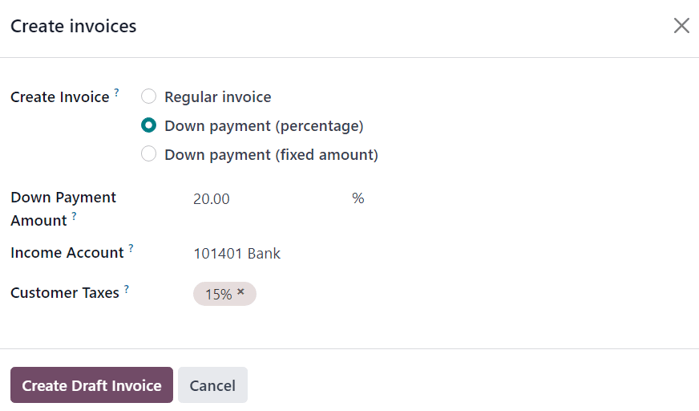
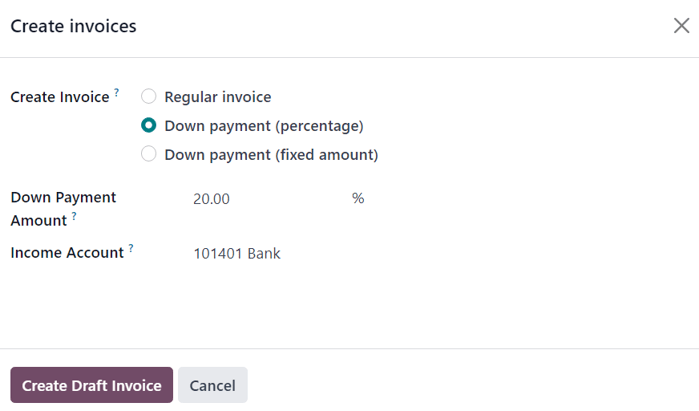
[IMP] sales: down payment tax breakdown
Since https://github.com/odoo/odoo/commit/a11f402d6b949fdef8a86b532642287609ea74bc the taxes on the down payment Invoices are broken down in proportion of the Sales Order Lines taxes. And the customer tax on the down payment product is not used anymore.

closes odoo/documentation#12305

Task: 4621266

Changed region(s): [[0.2704, 0.6715, 0.3906, 0.7591], [0.0, 0.7007, 0.1803, 0.7299]]

diff --git a/content/applications/sales/sales/invoicing/down_payment.rst b/content/applications/sales/sales/invoicing/down_payment.rst
@@ -46,8 +46,8 @@ Once the desired down payment option is selected in the :guilabel:`Create Invoic
 pop-up form, designate the desired amount, either as a percentage or a fixed amount, in the
 :guilabel:`Down Payment Amount` field.
 
-Then, select the appropriate income account for the invoice in the :guilabel:`Income Account` field.
-Next, select a tax amount, if necessary, in the :guilabel:`Customer Taxes` drop-down field.
+Then, select the appropriate income account for the down payment (only the first time a down payment
+is created) in the :guilabel:`Income Account` field.
 
 .. image:: down_payment/create-invoices-popup-form-filled-out.png
    :align: center
@@ -115,13 +115,11 @@ Next, on the :guilabel:`Create invoices` pop-up window that appears, select :gui
 (percentage)`, and type `50` in the :guilabel:`Down Payment Amount` field.
 
 .. note::
-   The :guilabel:`Income Account` and :guilabel:`Customer Taxes` fields are *not* required fields,
-   and they will *not* appear if they've already been preconfigured in previous down payment
-   requests.
+   The :guilabel:`Income Account` field is *not* a required field, and it does *not* appear if it
+   has already been preconfigured in previous down payment requests.
 
-   For more information, check out the documentation on :ref:`customer taxes modification on down
-   payments <sales/invoicing/customer-tax-modification-down-payments>` and :ref:`income account
-   modification on down payments <sales/invoicing/income-account-modification>`.
+   For more information, check out the documentation on :ref:`income account modification on down
+   payments <sales/invoicing/income-account-modification>`.
 
 Lastly, click :guilabel:`Create Draft Invoice` to create and view the invoice draft.
 
@@ -258,24 +256,24 @@ an invoice can now be created by clicking :guilabel:`Create Invoice` in the top-
 
 On the :guilabel:`Create invoices` pop-up window that appears, select :guilabel:`Down payment
 (percentage)`, and type `100` in the :guilabel:`Down Payment Amount` field. Then, if desired, select
-an :guilabel:`Income Account` and :guilabel:`Customer Taxes` in their respective fields.
+an :guilabel:`Income Account`.
 
 .. note::
    The :guilabel:`Income Account` and :guilabel:`Customer Taxes` fields are *not* required fields,
    and they will *not* appear if they've already been preconfigured in previous down payment
    requests.
 
-   For more information, check out the documentation on :ref:`customer taxes modification on down
-   payments <sales/invoicing/customer-tax-modification-down-payments>` and :ref:`income account
-   modification on down payments <sales/invoicing/income-account-modification>`.
+   For more information, check out the documentation on :ref:`income account modification on down
+   payments <sales/invoicing/income-account-modification>`.
 
 .. image:: down_payment/100p-down-payment-percentage.png
    :align: center
    :alt: The Down payment (percentage) option selected with 100% set as the Down Payment.
 
-Next, click :guilabel:`Create Draft Invoice` to create an invoice draft. This will also
-bring the draft invoice into view, which includes the :guilabel:`Down payment` as a
-:guilabel:`Product` in the :guilabel:`Invoice Lines` tab.
+Next, click :guilabel:`Create Draft Invoice` to create an invoice draft. This will also bring the
+draft invoice into view, which includes the :guilabel:`Down payment` as a :guilabel:`Product` in the
+:guilabel:`Invoice Lines` tab. The taxes on the down payment invoices are broken down in proportion
+of the sales order lines taxes.
 
 The invoice can now be confirmed and posted by clicking :guilabel:`Confirm`. Confirming the
 invoice changes the status from :guilabel:`Draft` to :guilabel:`Posted`. It also reveals a new
@@ -297,22 +295,6 @@ After clicking :guilabel:`Create Payment`, Odoo reveals the customer invoice, no
 
 The process is now complete, and the 100% down payment has been successfully applied.
 
-.. _sales/invoicing/customer-tax-modification-down-payments:
-
-Customer taxes modification on down payments
-============================================
-
-To adjust the income account and customer taxes attached to a down payment, navigate to the
-:guilabel:`Products` page (:menuselection:`Sales app --> Products --> Products`), search for the
-`Down Payment` product in the search bar, and select it to reveal the product detail page.
-
-On the :guilabel:`Down Payment` product page, in the :guilabel:`General Information` tab, the
-customer taxes can be modified in the :guilabel:`Customer Taxes` field.
-
-.. image:: down_payment/customer-taxes-field.png
-   :align: center
-   :alt: How to modify the income account link to down payments.
-
 .. _sales/invoicing/income-account-modification:
 
 Income account modification on down payments
@@ -321,8 +303,12 @@ Income account modification on down payments
 To change or adjust the income account attached to the :guilabel:`Down Payment` product page, the
 *Accounting* app **must** be installed.
 
+Navigate to the :guilabel:`Products` page (:menuselection:`Sales app --> Products --> Products`),
+search for the `Down Payment` product in the search bar, and select it to reveal the product detail
+page.
+
 With the *Accounting* app installed, the :guilabel:`Accounting` tab becomes available on the product
-page. That tab will **not** be accessible without the *Accounting* app installed.
+page.
 
 In the :guilabel:`Accounting` tab, the income account can be changed in the :guilabel:`Income
 Account` field, located in the :guilabel:`Receivables` section.
